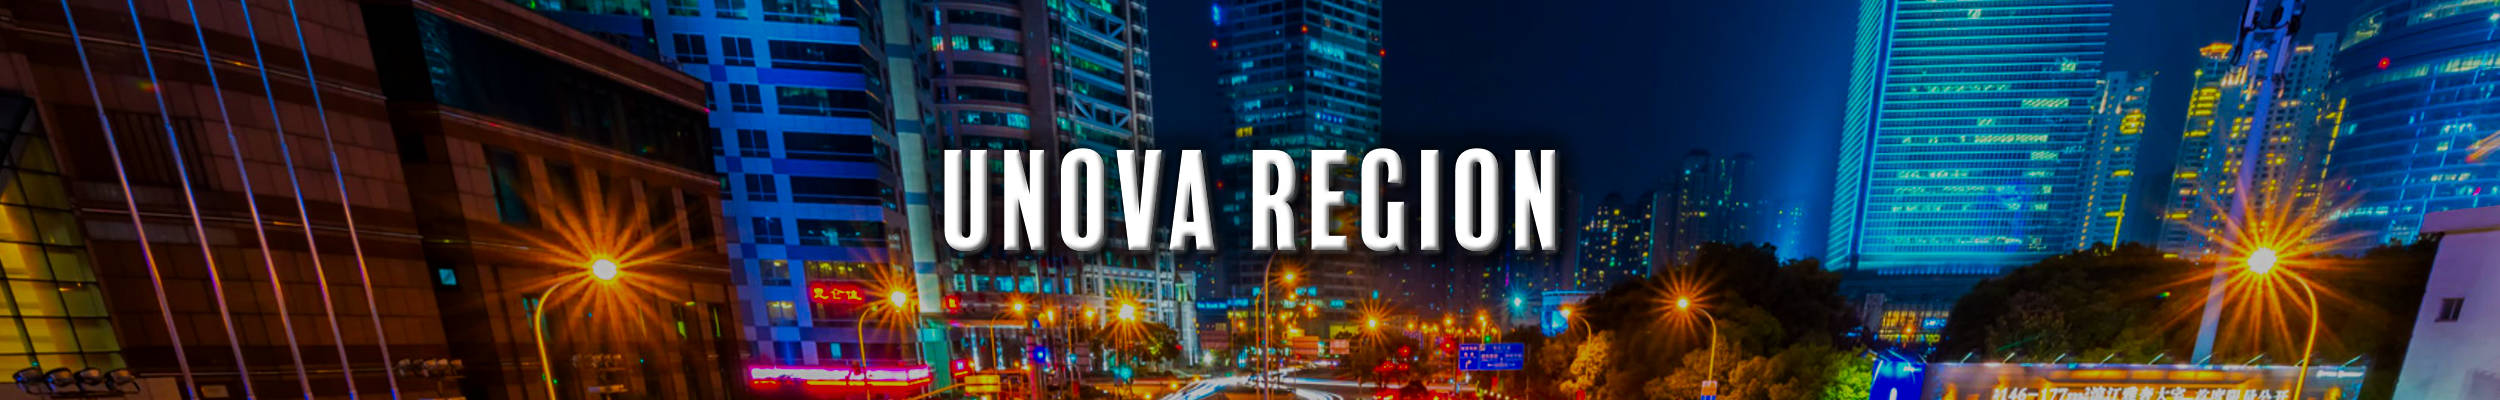
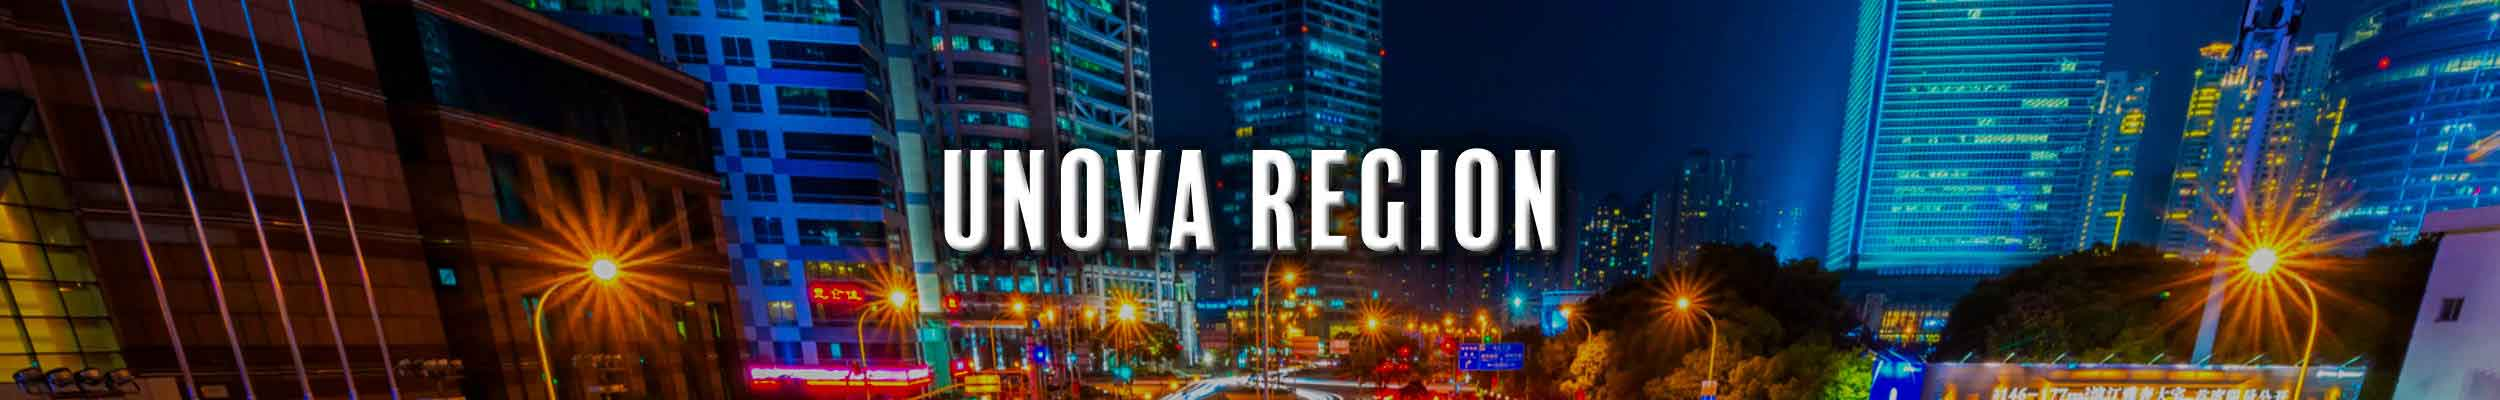
Improved Load Time
- Further compressed images.
- Created and added a favicon for an icon when added to phone homescreen or bookmarks.

diff --git a/alola.html b/alola.html
@@ -4,6 +4,7 @@
     <meta charset="utf-8">
     <meta name="viewport" content="width=device-width, initial-scale=1">
     <title>Pokédex | Simple JS App</title>
+    <link rel="shortcut icon" href="img/favicon.png" type="image/x-icon">
     <link rel="stylesheet" type="text/css" href="css/normalize.css">
     <link rel="stylesheet" href="https://stackpath.bootstrapcdn.com/bootstrap/4.3.1/css/bootstrap.min.css" integrity="sha384-ggOyR0iXCbMQv3Xipma34MD+dH/1fQ784/j6cY/iJTQUOhcWr7x9JvoRxT2MZw1T" crossorigin="anonymous">
     <link rel="stylesheet" type="text/css" href="css/styles.production.css">

diff --git a/hoenn.html b/hoenn.html
@@ -4,6 +4,7 @@
     <meta charset="utf-8">
     <meta name="viewport" content="width=device-width, initial-scale=1">
     <title>Pokédex | Simple JS App</title>
+    <link rel="shortcut icon" href="img/favicon.png" type="image/x-icon">
     <link rel="stylesheet" type="text/css" href="css/normalize.css">
     <link rel="stylesheet" href="https://stackpath.bootstrapcdn.com/bootstrap/4.3.1/css/bootstrap.min.css" integrity="sha384-ggOyR0iXCbMQv3Xipma34MD+dH/1fQ784/j6cY/iJTQUOhcWr7x9JvoRxT2MZw1T" crossorigin="anonymous">
     <link rel="stylesheet" type="text/css" href="css/styles.production.css">

diff --git a/index.html b/index.html
@@ -4,6 +4,7 @@
     <meta charset="utf-8">
     <meta name="viewport" content="width=device-width, initial-scale=1">
     <title>Pokédex | Simple JS App</title>
+    <link rel="shortcut icon" href="img/favicon.png" type="image/x-icon">
     <link rel="stylesheet" type="text/css" href="css/normalize.css">
     <link rel="stylesheet" href="https://stackpath.bootstrapcdn.com/bootstrap/4.3.1/css/bootstrap.min.css" integrity="sha384-ggOyR0iXCbMQv3Xipma34MD+dH/1fQ784/j6cY/iJTQUOhcWr7x9JvoRxT2MZw1T" crossorigin="anonymous">
     <link rel="stylesheet" type="text/css" href="css/styles.production.css">

diff --git a/kalos.html b/kalos.html
@@ -4,6 +4,7 @@
     <meta charset="utf-8">
     <meta name="viewport" content="width=device-width, initial-scale=1">
     <title>Pokédex | Simple JS App</title>
+    <link rel="shortcut icon" href="img/favicon.png" type="image/x-icon">
     <link rel="stylesheet" type="text/css" href="css/normalize.css">
     <link rel="stylesheet" href="https://stackpath.bootstrapcdn.com/bootstrap/4.3.1/css/bootstrap.min.css" integrity="sha384-ggOyR0iXCbMQv3Xipma34MD+dH/1fQ784/j6cY/iJTQUOhcWr7x9JvoRxT2MZw1T" crossorigin="anonymous">
     <link rel="stylesheet" type="text/css" href="css/styles.production.css">

diff --git a/sinnoh.html b/sinnoh.html
@@ -4,6 +4,7 @@
     <meta charset="utf-8">
     <meta name="viewport" content="width=device-width, initial-scale=1">
     <title>Pokédex | Simple JS App</title>
+    <link rel="shortcut icon" href="img/favicon.png" type="image/x-icon">
     <link rel="stylesheet" type="text/css" href="css/normalize.css">
     <link rel="stylesheet" href="https://stackpath.bootstrapcdn.com/bootstrap/4.3.1/css/bootstrap.min.css" integrity="sha384-ggOyR0iXCbMQv3Xipma34MD+dH/1fQ784/j6cY/iJTQUOhcWr7x9JvoRxT2MZw1T" crossorigin="anonymous">
     <link rel="stylesheet" type="text/css" href="css/styles.production.css">

diff --git a/unova.html b/unova.html
@@ -4,6 +4,7 @@
     <meta charset="utf-8">
     <meta name="viewport" content="width=device-width, initial-scale=1">
     <title>Pokédex | Simple JS App</title>
+    <link rel="shortcut icon" href="img/favicon.png" type="image/x-icon">
     <link rel="stylesheet" type="text/css" href="css/normalize.css">
     <link rel="stylesheet" href="https://stackpath.bootstrapcdn.com/bootstrap/4.3.1/css/bootstrap.min.css" integrity="sha384-ggOyR0iXCbMQv3Xipma34MD+dH/1fQ784/j6cY/iJTQUOhcWr7x9JvoRxT2MZw1T" crossorigin="anonymous">
     <link rel="stylesheet" type="text/css" href="css/styles.production.css">
